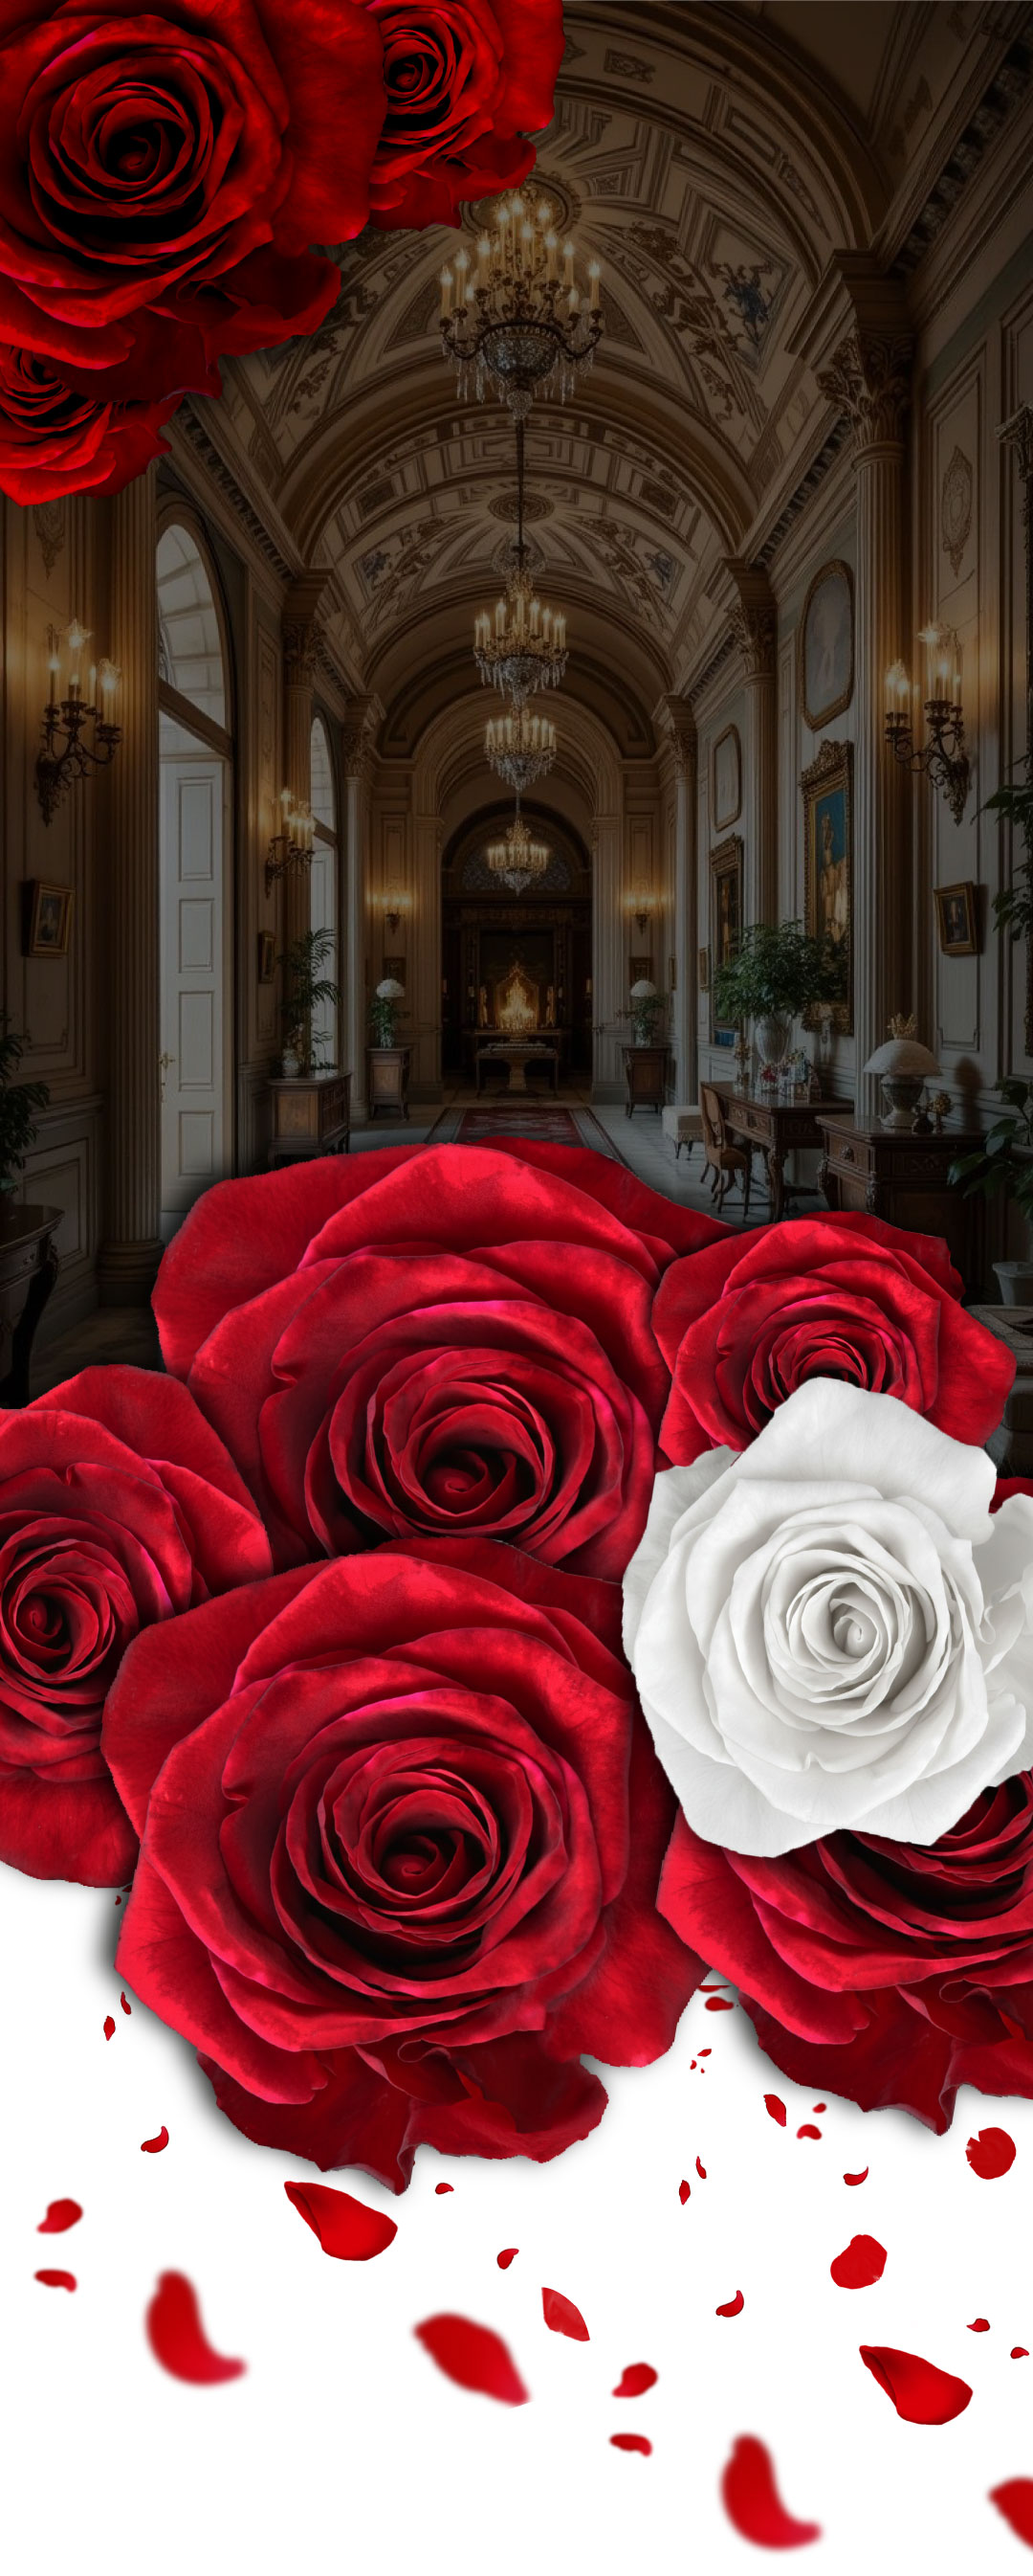
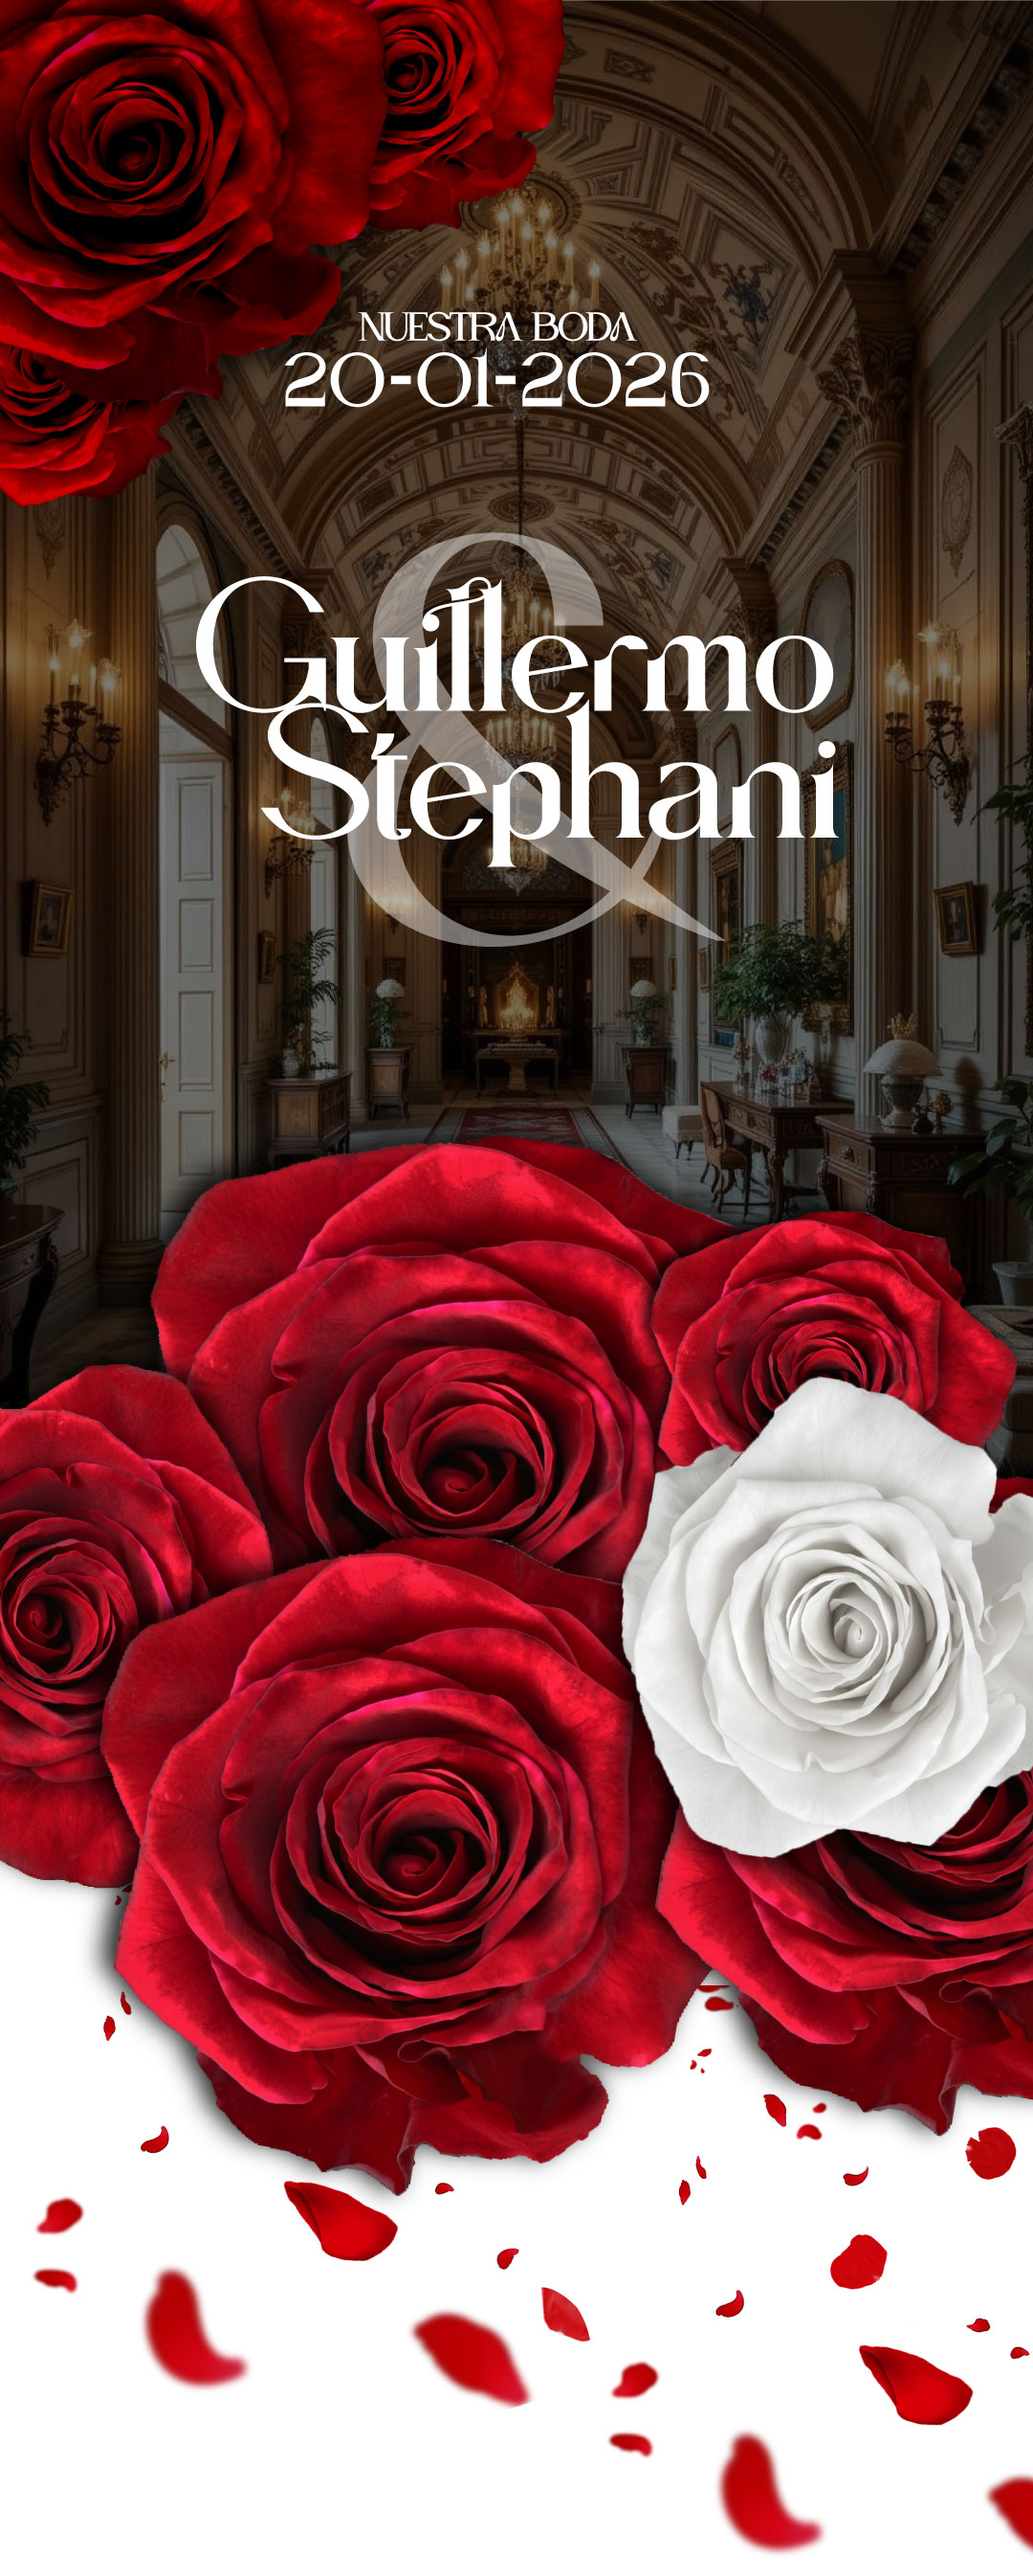
txtt

Changed region(s): [[0.1833, 0.1873, 0.825, 0.3746], [0.275, 0.1249, 0.7028, 0.1561]]

diff --git a/style.css b/style.css
@@ -5,49 +5,40 @@
     box-sizing: border-box;
 }
 
-/* 2. FUENTE PERSONALIZADA MIGROSKA */
-@font-face {
-    font-family: 'Migroska';
-    src: url('fuentes/migroska.otf') format('opentype');
-    font-weight: normal;
-    font-style: normal;
-    font-display: swap; /* Mejora la experiencia de carga */
-}
-
 body, html {
     width: 100%;
-    background-color: #ffffff;
+    background-color: #ffffff; /* O el color de tu fondo */
     overflow-x: hidden;
-    line-height: 0;
-    font-family: 'Migroska', 'Georgia', serif; /* Fallback a Georgia si Migroska no carga */
+    /* Elimina espacios entre elementos inline */
+    line-height: 0; 
 }
 
-/* 3. CONTENEDOR */
+/* 2. CONTENEDOR */
 .invitacion {
     width: 100%;
-    max-width: 1080px;
+    max-width: 1080px; /* Tu ancho base */
     margin: 0 auto;
     display: flex;
     flex-direction: column;
 }
 
-/* 4. SECCIONES e IMÁGENES */
+/* 3. SECCIONES e IMÁGENES */
 .seccion {
     width: 100%;
-    position: relative;
-    line-height: 0;
+    position: relative; /* Para cuando pongas botones encima */
+    line-height: 0;     /* Refuerza que no haya espacio abajo */
     display: block;
 }
 
 .img-boda {
-    width: 100%;
-    height: auto;
-    display: block;
+    width: 100%;        /* Se ajusta al ancho del celular */
+    height: auto;       /* La altura se calcula sola para no dejar huecos */
+    display: block;     /* Quita el margen inferior por defecto de las imágenes */
     border: none;
     outline: none;
 }
 
-/* 5. BOTONES */
+/* 4. BOTONES (Ejemplo básico) */
 .botones-fijos {
     position: fixed;
     bottom: 20px;
@@ -63,11 +54,11 @@ body, html {
     background: rgba(255,255,255,0.8);
     font-size: 20px;
     cursor: pointer;
-    line-height: 1;
-    font-family: inherit; /* Hereda la fuente del body */
+    line-height: 1; /* Para centrar el emoji */
 }
 
-/* 6. ESTILOS PARA TEXTO SOBRE IMÁGENES */
+
+/* 5. ESTILOS PARA TEXTO SOBRE IMÁGENES */
 .contenedor-texto {
     position: absolute;
     top: 0;
@@ -81,92 +72,67 @@ body, html {
     z-index: 2;
     text-align: center;
     padding: 20px;
-    pointer-events: none;
+    pointer-events: none; /* Permite hacer clic en la imagen */
 }
 
 .texto-superior {
     color: white;
-    font-size: clamp(26px, 6.5vw, 52px);
-    font-family: 'Migroska', 'Georgia', serif;
-    font-weight: normal; /* Migroska podría no tener pesos bold, usa normal */
-    text-shadow: 2px 2px 10px rgba(0, 0, 0, 0.8);
-    margin-bottom: 15px;
-    letter-spacing: 2px;
-    text-transform: uppercase; /* Para un look más elegante */
+    font-size: clamp(24px, 6vw, 48px);
+    font-family: 'Georgia', serif;
+    font-weight: bold;
+    text-shadow: 2px 2px 8px rgba(0, 0, 0, 0.7);
+    margin-bottom: 10px;
+    letter-spacing: 1px;
 }
 
 .texto-fecha {
     color: white;
-    font-size: clamp(20px, 4.5vw, 36px);
-    font-family: 'Migroska', 'Georgia', serif;
-    font-weight: normal;
-    text-shadow: 2px 2px 8px rgba(0, 0, 0, 0.7);
-    margin-bottom: 40px;
-    letter-spacing: 3px;
+    font-size: clamp(18px, 4vw, 32px);
+    font-family: 'Arial', sans-serif;
+    text-shadow: 2px 2px 6px rgba(0, 0, 0, 0.7);
+    margin-bottom: 30px;
+    letter-spacing: 2px;
 }
 
 .texto-nombres {
     display: flex;
     align-items: center;
     justify-content: center;
-    gap: 20px;
+    gap: 15px;
     flex-wrap: wrap;
-    margin-top: 10px;
 }
 
 .nombre {
     color: white;
-    font-size: clamp(32px, 8vw, 64px);
-    font-family: 'Migroska', 'Georgia', serif;
-    font-weight: normal;
-    text-shadow: 3px 3px 12px rgba(0, 0, 0, 0.9);
-    letter-spacing: 1.5px;
-    text-transform: uppercase;
+    font-size: clamp(28px, 7vw, 56px);
+    font-family: 'Georgia', serif;
+    font-weight: bold;
+    text-shadow: 2px 2px 10px rgba(0, 0, 0, 0.8);
+    letter-spacing: 1px;
 }
 
 .ampersand {
     color: white;
-    font-size: clamp(48px, 12vw, 96px); /* Más grande que los nombres */
-    font-family: 'Migroska', 'Georgia', serif;
+    font-size: clamp(40px, 10vw, 80px); /* Más grande que los nombres */
+    font-family: 'Georgia', serif;
     font-weight: normal;
-    opacity: 0.4; /* 40% de opacidad como pediste */
-    text-shadow: 2px 2px 10px rgba(0, 0, 0, 0.7);
-    line-height: 0.8;
-    margin: 0 5px;
+    opacity: 0.4; /* 40% de opacidad */
+    text-shadow: 2px 2px 8px rgba(0, 0, 0, 0.7);
+    line-height: 1;
 }
 
-/* 7. AJUSTES ESPECÍFICOS PARA MEJOR VISUALIZACIÓN CON MIGROSKA */
-/* Si la fuente Migroska es muy delgada, podemos añadir efectos para mejorar legibilidad */
-.texto-superior,
-.texto-fecha,
-.nombre {
-    -webkit-font-smoothing: antialiased;
-    -moz-osx-font-smoothing: grayscale;
-    text-rendering: optimizeLegibility;
-}
-
-/* Ajuste para el & con opacidad */
-.ampersand {
-    filter: drop-shadow(0 0 3px rgba(255, 255, 255, 0.3)); /* Refuerza visibilidad */
-}
-
-/* 8. Media queries para ajustes responsivos */
+/* Media queries para ajustes responsivos */
 @media (max-width: 768px) {
     .contenedor-texto {
         padding: 15px;
     }
     
     .texto-fecha {
-        margin-bottom: 30px;
-        letter-spacing: 2px;
+        margin-bottom: 20px;
     }
     
     .texto-nombres {
-        gap: 12px;
-    }
-    
-    .ampersand {
-        margin: 0 3px;
+        gap: 10px;
     }
 }
 
@@ -175,50 +141,11 @@ body, html {
         padding: 10px;
     }
     
-    .texto-superior {
-        margin-bottom: 10px;
-        letter-spacing: 1.5px;
-    }
-    
     .texto-fecha {
-        margin-bottom: 25px;
-        letter-spacing: 1.5px;
+        margin-bottom: 15px;
     }
     
     .texto-nombres {
         gap: 8px;
-    }
-    
-    .nombre {
-        letter-spacing: 1px;
-    }
-    
-    .ampersand {
-        line-height: 0.7;
-    }
-}
-
-/* 9. Ajuste para orientación horizontal en móviles */
-@media (max-height: 600px) and (orientation: landscape) {
-    .contenedor-texto {
-        padding: 10px;
-    }
-    
-    .texto-superior {
-        font-size: clamp(20px, 4vw, 32px);
-        margin-bottom: 5px;
-    }
-    
-    .texto-fecha {
-        font-size: clamp(16px, 3vw, 24px);
-        margin-bottom: 15px;
-    }
-    
-    .nombre {
-        font-size: clamp(24px, 5vw, 40px);
-    }
-    
-    .ampersand {
-        font-size: clamp(32px, 7vw, 56px);
     }
 }

diff --git a/index.html b/index.html
@@ -18,15 +18,6 @@
     <main class="invitacion">
         
         <section class="seccion">
-            <div class="contenedor-texto">
-                <div class="texto-superior">NUESTRA BODA</div>
-                <div class="texto-fecha">20-01-2026</div>
-                <div class="texto-nombres">
-                    <span class="nombre">Guillermo</span>
-                    <span class="ampersand">&</span>
-                    <span class="nombre">Estephani</span>
-                </div>
-            </div>
             <img src="imagenes/fondo1.jpg" alt="Portada" class="img-boda">
         </section>
         
